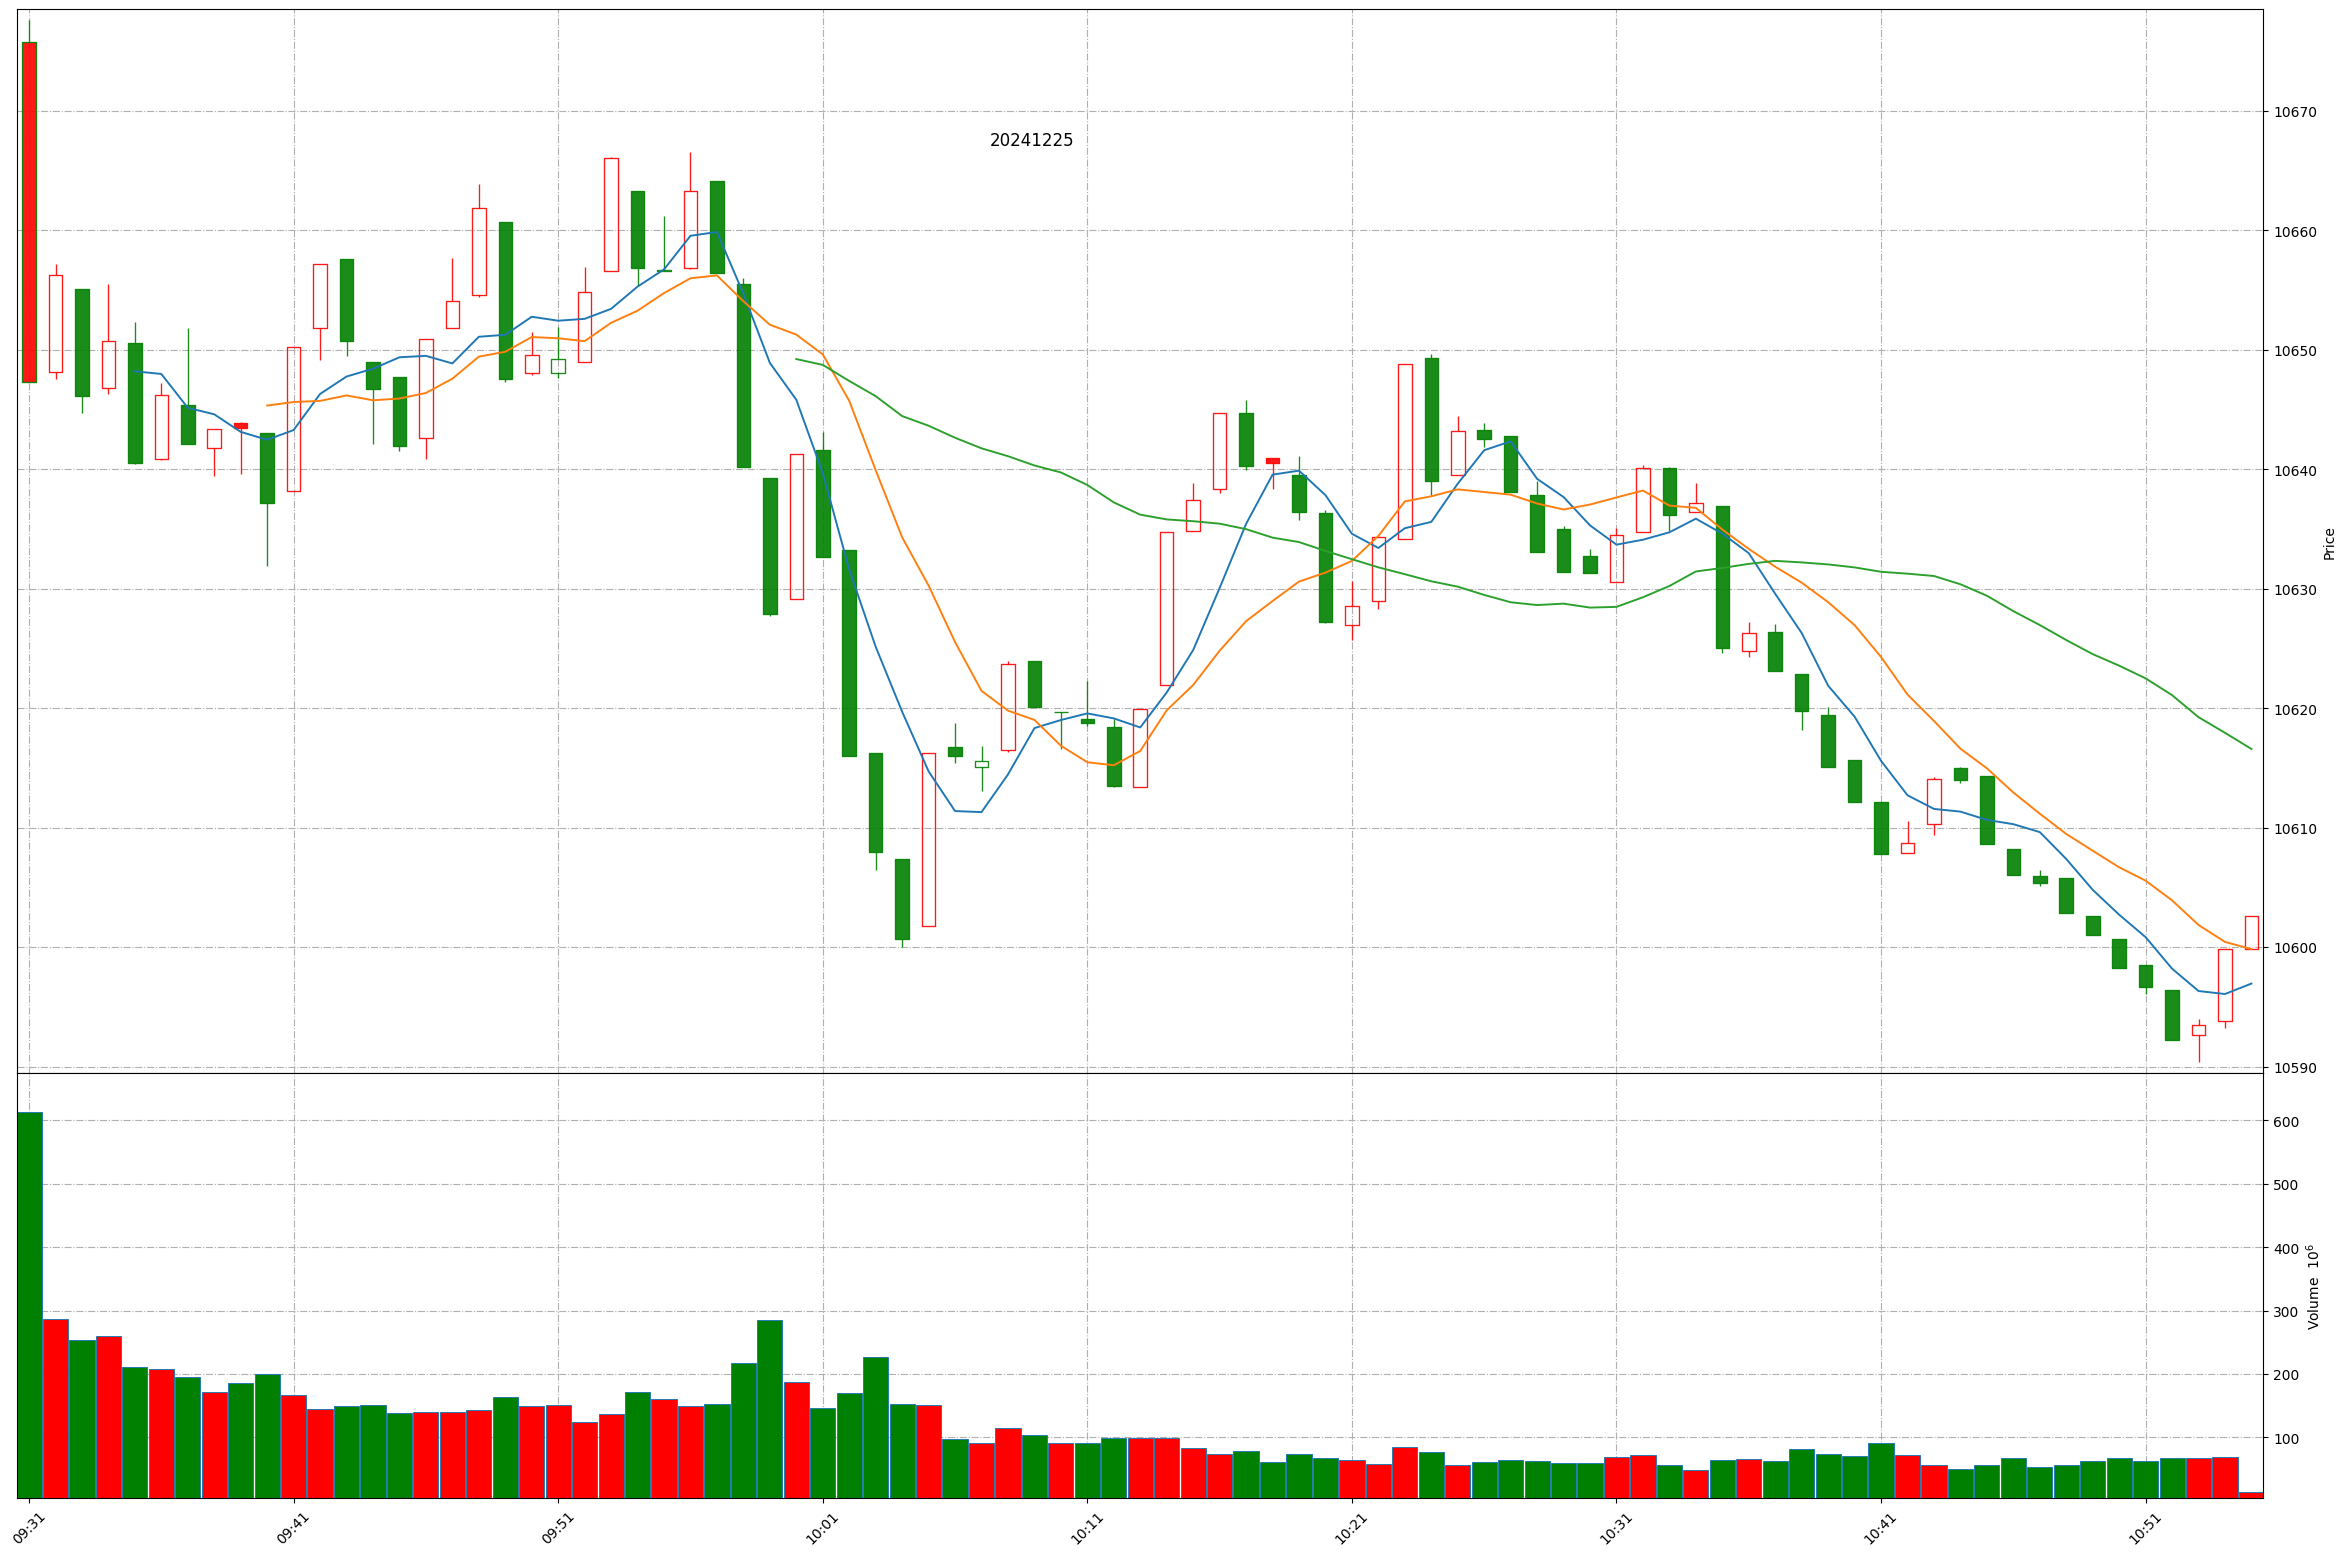
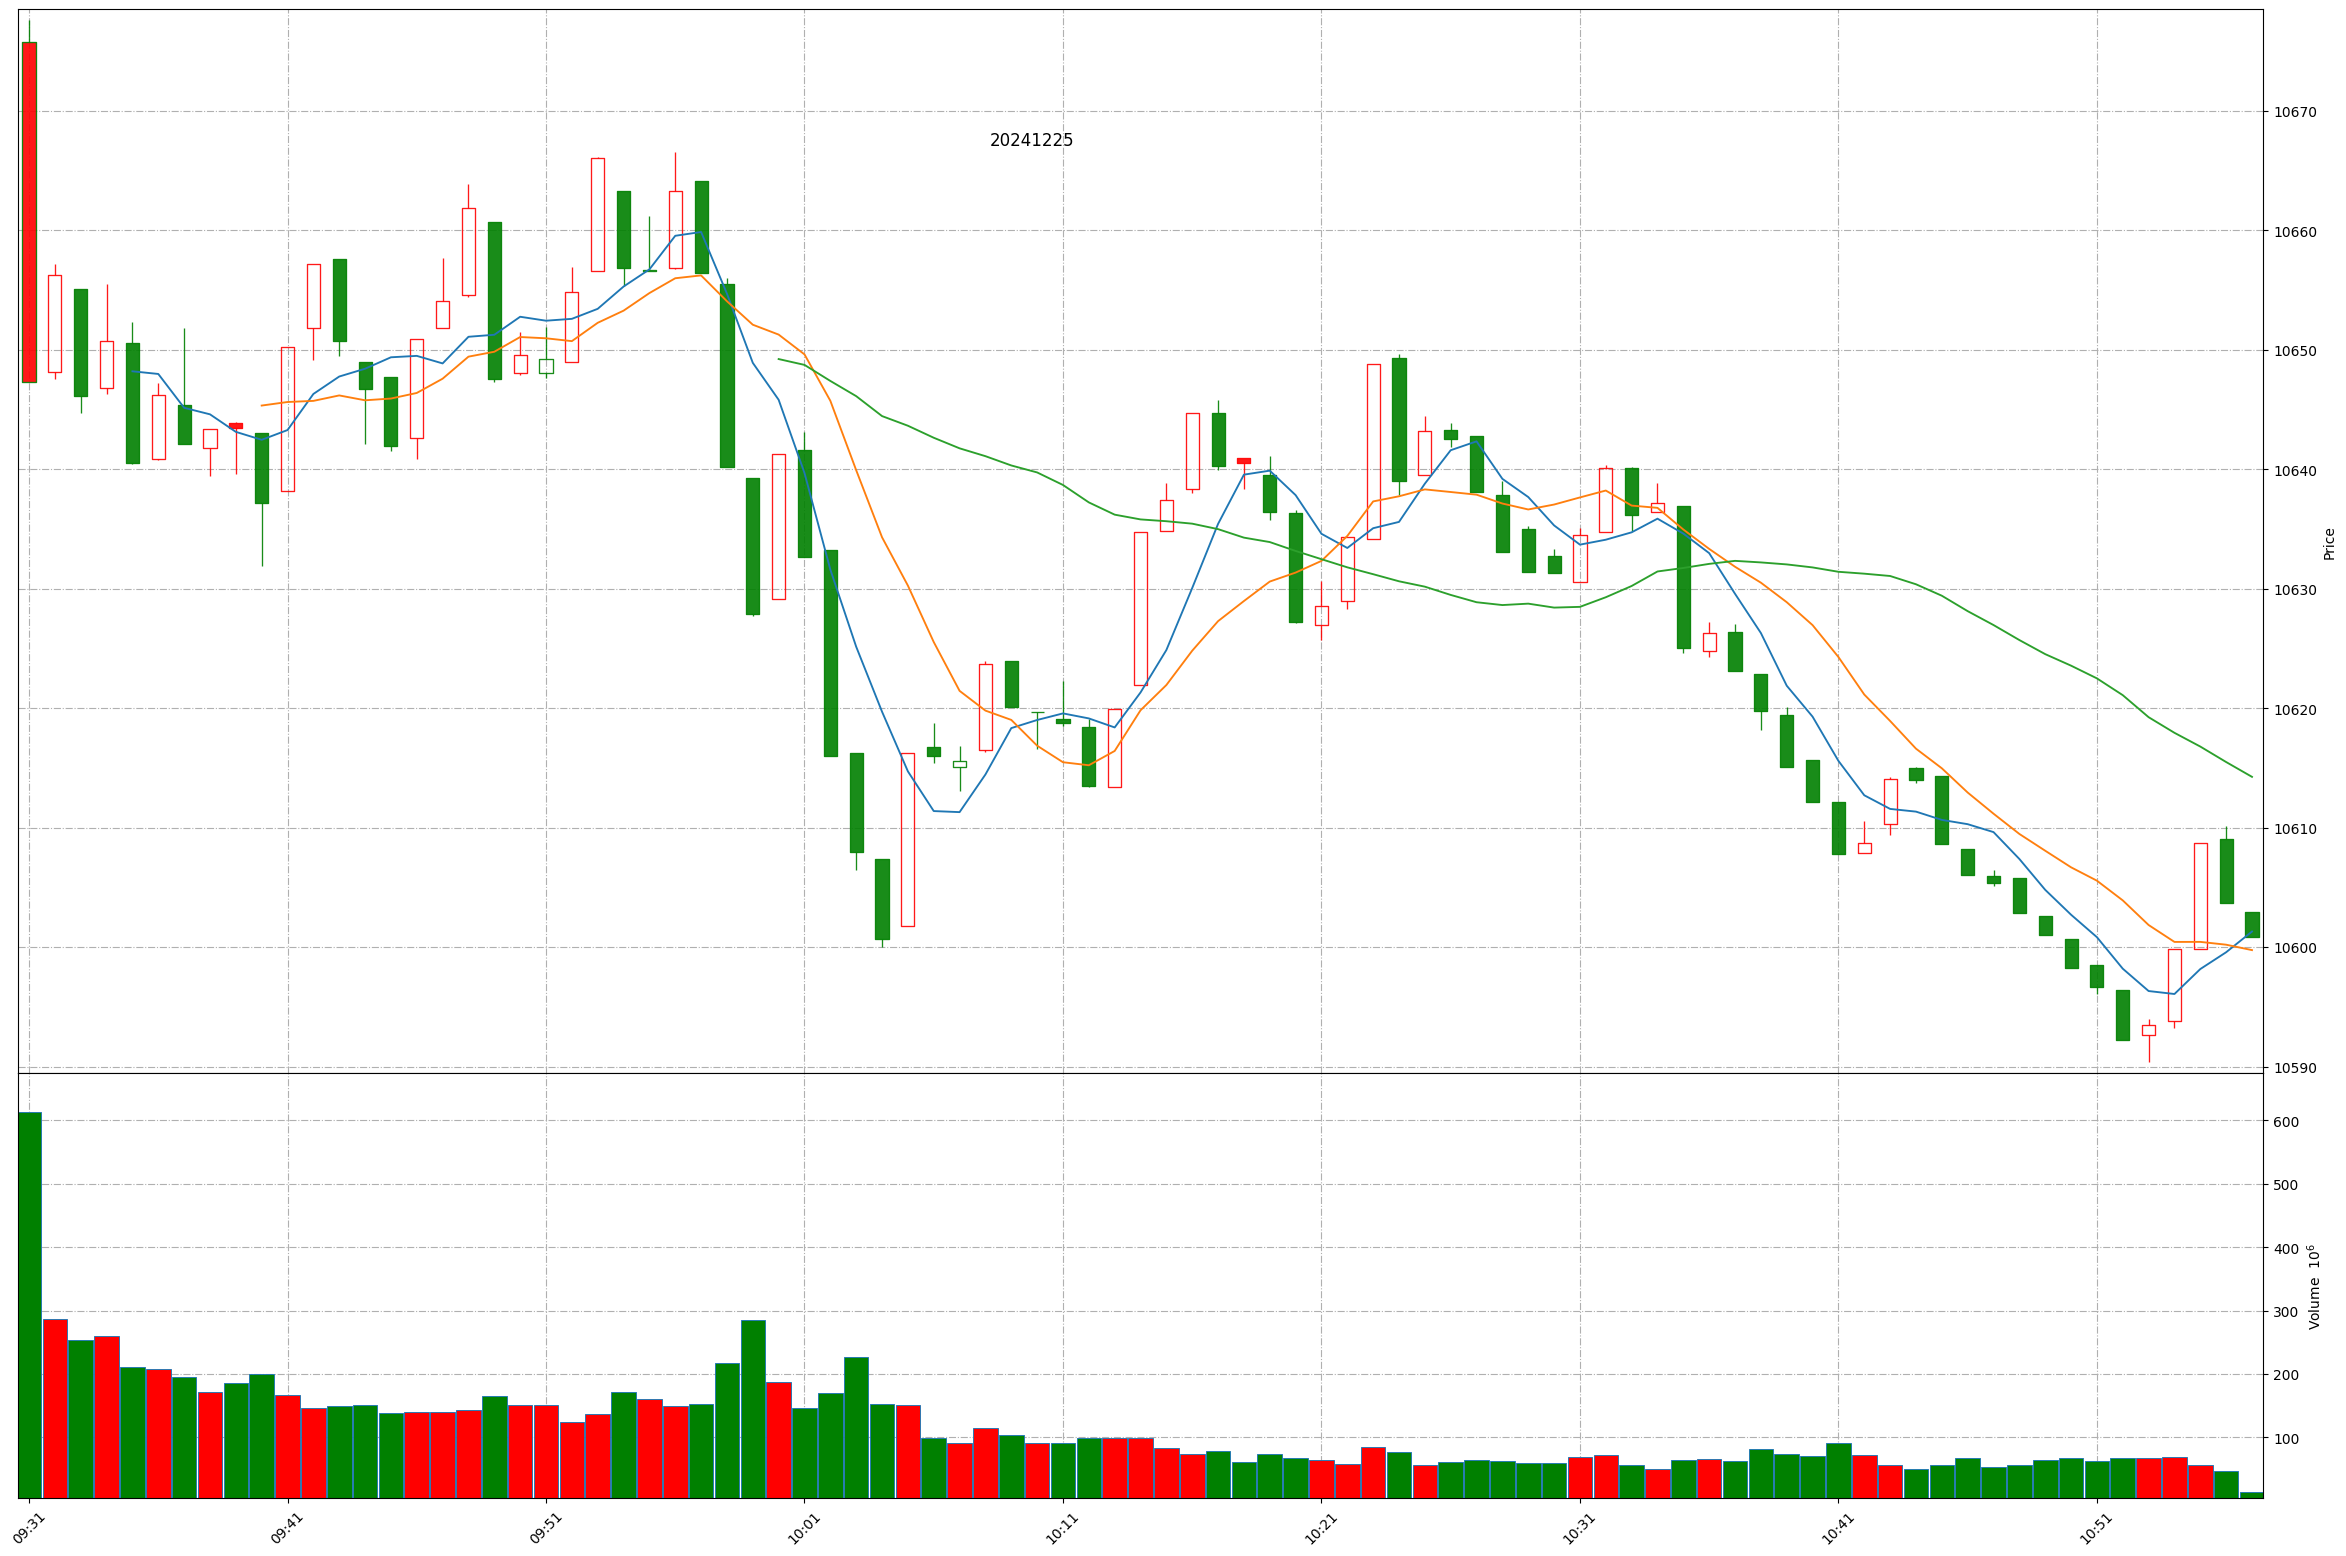
Github action update at 2024-12-25 10:56:28.

diff --git a/README.md b/README.md
@@ -1,11 +1,11 @@
 
 # Daily-A-share-market-quotes 每日 A 股指数（5min 更新）- 20241225
 
-### 上证指数 20241225 10:54
+### 上证指数 20241225 10:56
 ![](./fig/2024/12/20241225-sh000001.png)
 
-### 深证成指 20241225 10:54
+### 深证成指 20241225 10:56
 ![](./fig/2024/12/20241225-sz399001.png)
 
-### 北证50 20241225 10:54
+### 北证50 20241225 10:56
 ![](./fig/2024/12/20241225-bj899050.png)
